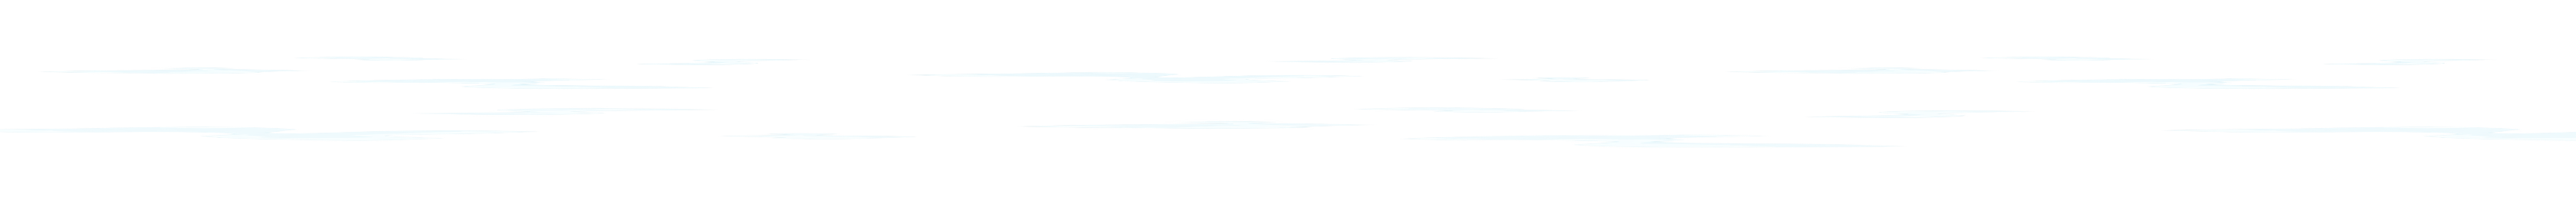
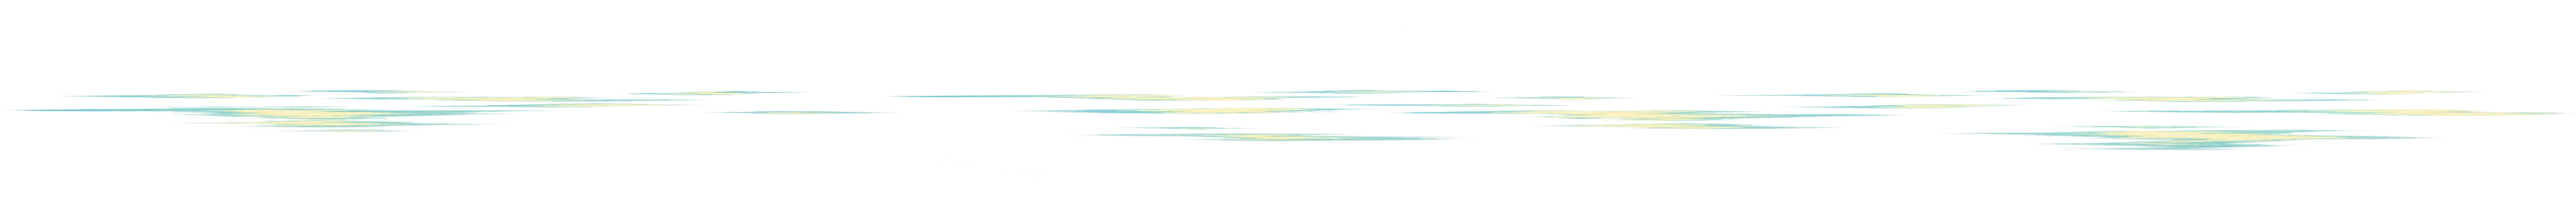
## 2026-10-25 — 钓鱼池塘柔软粉彩绘本

diff --git a/docs/art/pond-soft-pastel-overlay.md b/docs/art/pond-soft-pastel-overlay.md
@@ -1,0 +1,34 @@
+# 柔软粉彩绘本 Overlay 场景替换
+
+2026-10-25，按用户选择，以原版 `four-reference-textures-v1/03-mint-violet.png` 为配色和纹理基准，将城郊练杆塘 `pond-novice` 的环境替换为柔软粉彩绘本效果。
+
+## 资源与接入
+
+沿用现有 `layered/pond-village-v3/` 资源路径和 Sprite GUID，以便已保存的 Prefab、布局 JSON 和打包资源直接使用新图。该目录名是兼容路径；当前内容已更新为粉彩版本。
+
+- Unity：`fish-social-unity/Assets/Desktop/OverlayArt/Ponds/layered/pond-village-v3/`
+- Overlay 源资源：`desktop-overlay/OverlayResources/ponds/layered/pond-village-v3/`
+- 本地运行目录：`fish-social-unity/FishSocialOverlay/OverlayResources/ponds/layered/pond-village-v3/`
+
+10 张 PNG 分别是天空、3 个云实例、远林、水面底色、水面波纹、草地与岸石、完整树组、猫咪小屋。树干与树冠保留在同一透明图层。草岸、水面、云与建筑可以分别编辑。云实例共用新绘云素材并保留原来的透明度比例。
+
+素材通过内置 image_gen 按原图层轮廓、画布留白和粉彩参考重绘。原始像素尺寸、1680×560 场景坐标、groundY=416、图层顺序和切图位置不变。导出仅做尺寸适配与原有云透明度处理，没有额外调色滤镜。角色、座椅和 UI 继续使用项目原资源，未烘焙进背景。
+
+当前仍为静态分层环境；未新增云、树、水的运行时动画。
+
+## 验证
+
+- Unity 2021.3.29f1c1 批处理导入、导出、资源同步及场景渲染成功。
+- 10 张 PNG 尺寸与原资源一致，透明层保留 RGBA。
+- 55 个既有布局、Prefab、图层布局和 PNG meta 文件 SHA-256 不变。
+- `scripts/desktop/verify-pond-art.py` 通过：21 关、420 钓位，角色与座位接触点、图层坐标、引用和源资源一致。
+- Overlay 运行目录 3,894 个文件与源资源逐一 SHA-256 一致。
+- 检查了完整场景、单猫视窗、20 个钓位和 Unity 实际钓鱼动作近景。
+- macOS 本机未运行 Windows WPF 客户端。重启 Overlay 后进入城郊练杆塘检查实际显示；若运行的是另一个安装目录，需将更新后的 OverlayResources 同步到该执行文件旁。
+
+## 留档
+
+- 提示词和生成来源：[pond-soft-pastel-provenance.json](pond-soft-pastel-provenance.json)
+- 本地素材、原资源备份、分层预览和 Unity 日志：`/Users/red/Desktop/fish/output/scene-revision/pastel-overlay-v1/`
+- 预览入口：该目录下 `index.html`，支持新旧切换、单猫/20 钓位和透明图层查看。
+- 仅替换 `pond-novice` 对应的池塘主题，其余场景主题没有改动。

diff --git a/docs/art/overlay-scene-update-and-editor-menus.md b/docs/art/overlay-scene-update-and-editor-menus.md
@@ -6,7 +6,7 @@
 
 该命令导出所有已保存的钓鱼布局，将 `desktop-overlay/OverlayResources` 的配套文件同步到 `fish-social-unity/FishSocialOverlay/OverlayResources`，逐字节确认复制结果。不会调用布局生成器重建已保存的场景；未保存的 Prefab 编辑会被提示先保存。重新启动 Overlay 后加载新资源。
 
-当前新版分层池塘对应 `pond-novice`（城郊练杆塘）。10 个图层沿用同一坐标表，猫咪和座位保持已保存的对齐关系。本次更新为静态分层资源，环境动画仍是浏览器预览。
+当前新版分层池塘对应 `pond-novice`（城郊练杆塘）。10 个图层沿用同一坐标表，猫咪和座位保持已保存的对齐关系。2026-10-25 已替换为原版「柔软粉彩绘本」配色与纹理，见[替换记录](pond-soft-pastel-overlay.md)。本次更新为静态分层资源，环境动画仍是浏览器预览。
 
 Windows 打包流程也会先导出已保存的场景布局，再复制资源，避免新 Prefab 搭配旧 JSON。该操作更新的是资源，不会重新编译本地 Overlay 可执行文件。使用其他安装目录时，需将同一份 OverlayResources 复制到实际执行文件旁。
 

diff --git a/CHANGELOG.md b/CHANGELOG.md
@@ -1,3 +1,8 @@
+## 2026-10-25 — 钓鱼池塘柔软粉彩绘本
+
+- 城郊练杆塘的 10 个环境图层采用原版柔软粉彩绘本配色和笔触，更新 Unity、Overlay 源资源与运行目录；完整树组保持树冠和树干连接。
+- 既有切图坐标、Prefab、猫咪与木凳位置保持一致；Unity 渲染、21 关 420 钓位及 3,894 个运行资源一致性检查通过。Windows 实机观感待重启客户端确认。见[替换记录](docs/art/pond-soft-pastel-overlay.md)。
+
 ## 2026-10-25 — STEAM-DESKTOP-22H 正式采用
 
 - 用户确认“应用该方案”，采用v4简约水魔法造型＋v8鱼塘配色；WPF、Unity及默认预览同步。等待波纹×1.7、其他波纹×1.2，95%峰值及平滑淡出。
